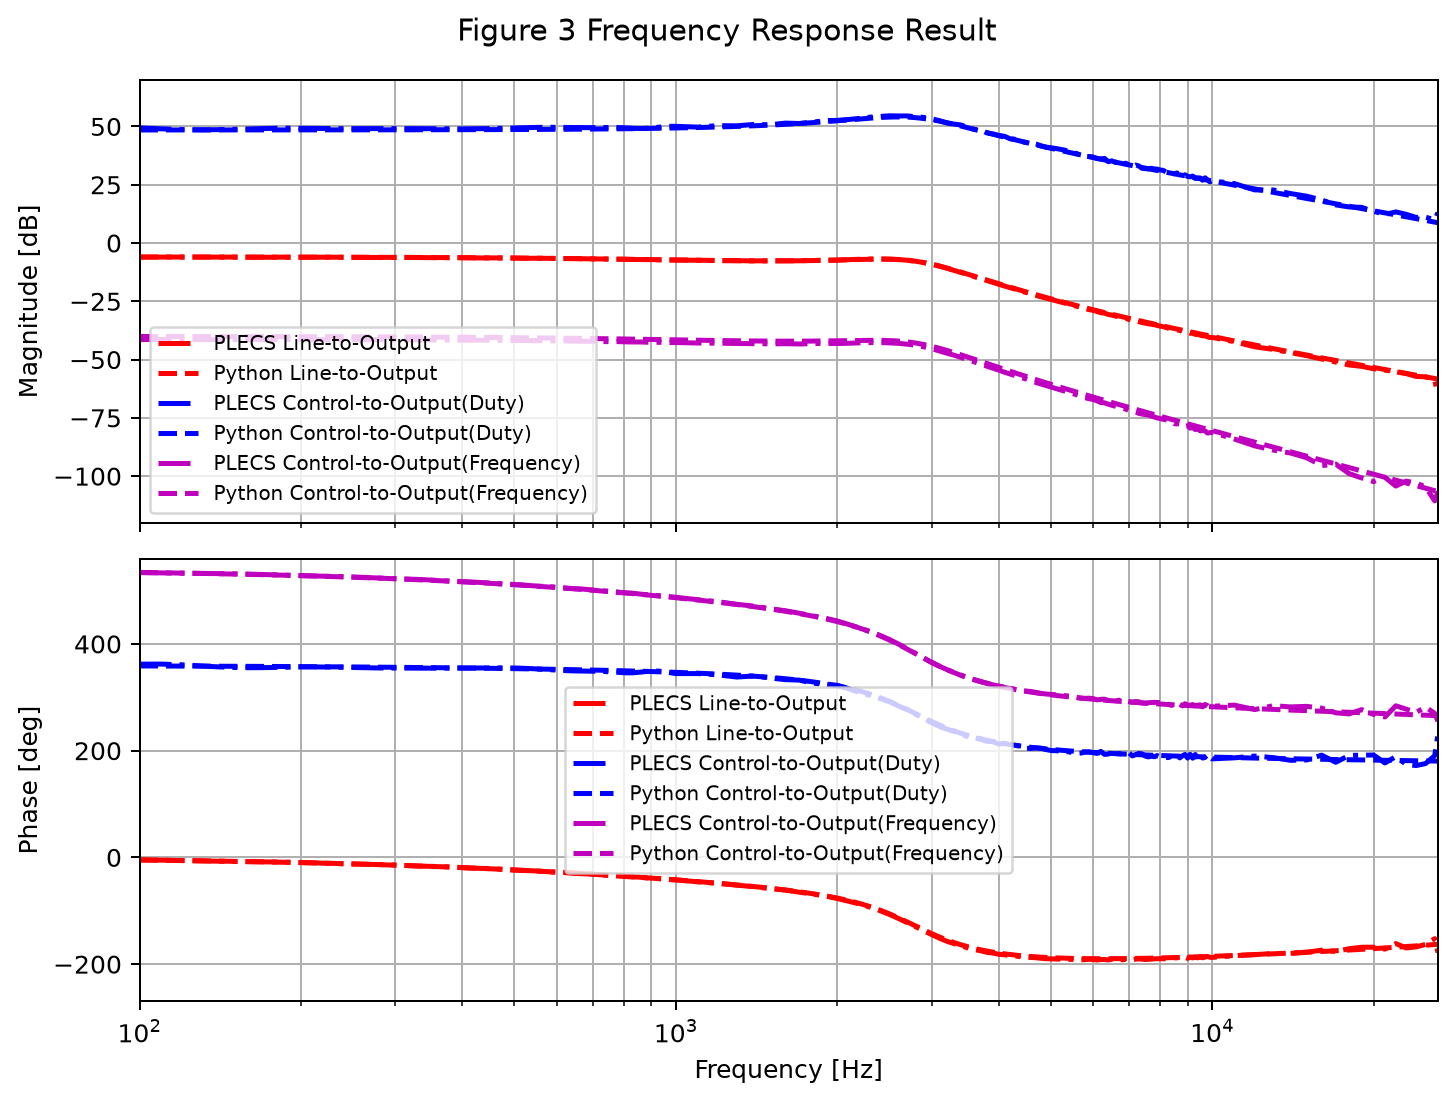
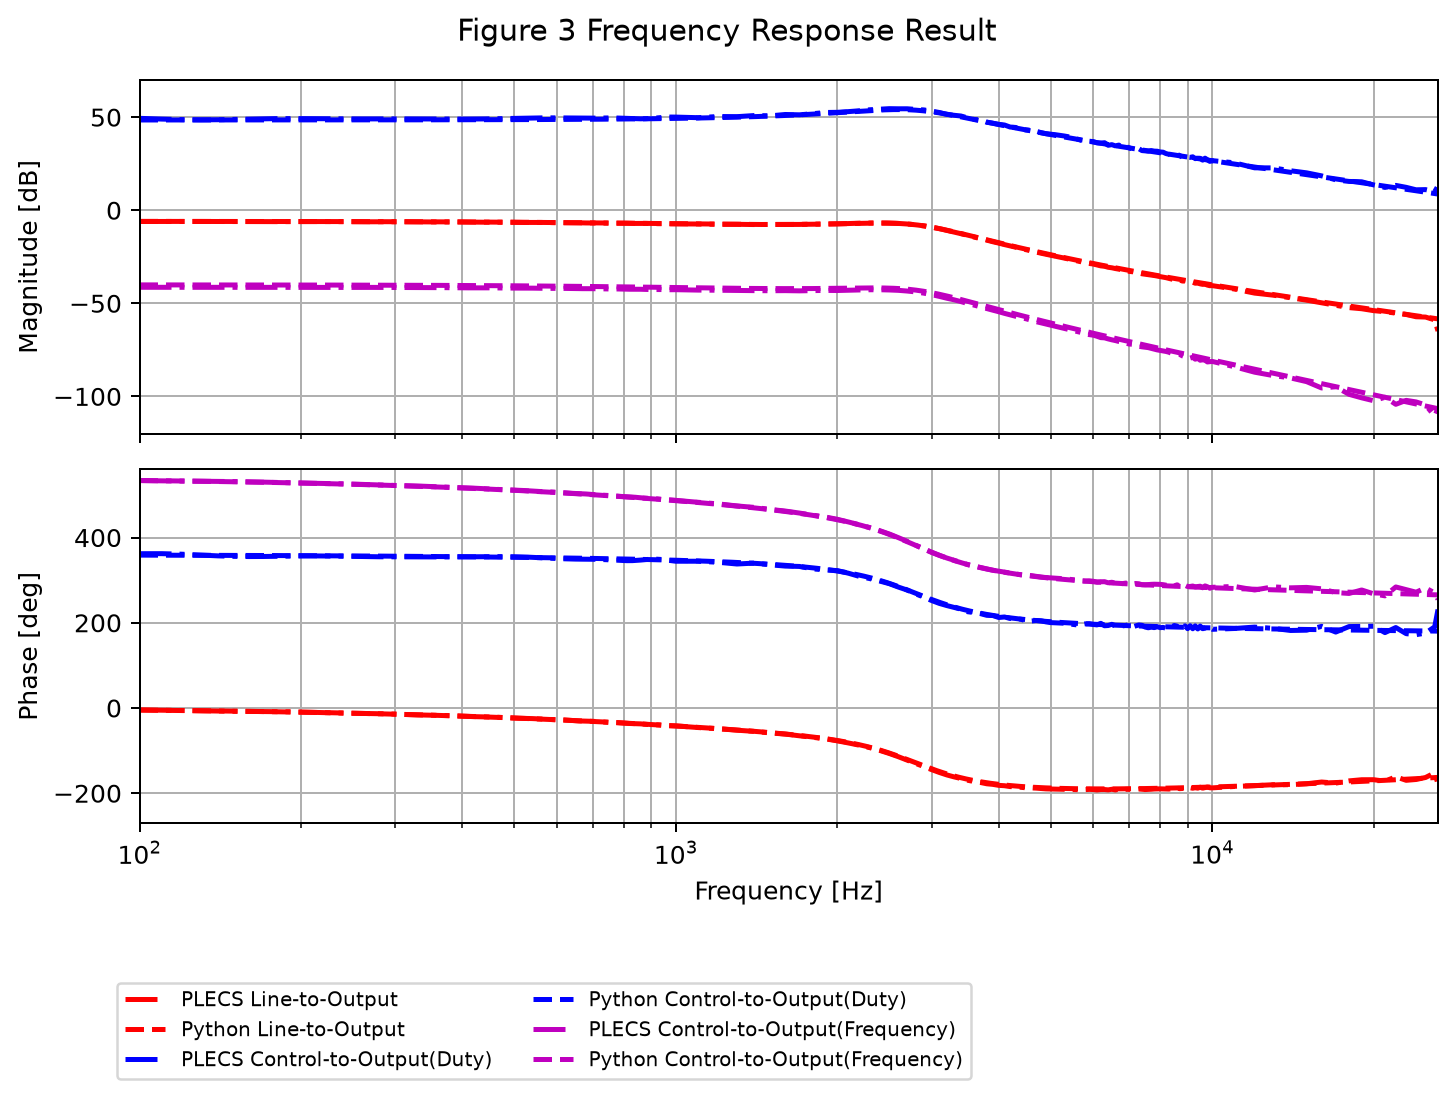
fix APWM Fig.3

diff --git a/src/plot.py b/src/plot.py
@@ -86,7 +86,26 @@ def setup_bode_axes(title, gain_ylim=None, phase_ylim=None, xlim=(100, 100000)):
     return figure, gain_axis, phase_axis
 
 
-def finish_bode_axes(figure, gain_axis, phase_axis):
+def finish_bode_axes(
+    figure,
+    gain_axis,
+    phase_axis,
+    legend_outside=False,
+):
+    if legend_outside:
+        handles, labels = gain_axis.get_legend_handles_labels()
+        figure.legend(
+            handles,
+            labels,
+            loc="lower left",
+            bbox_to_anchor=(0.08, 0.02),
+            fontsize=8,
+            ncol=2,
+            frameon=True,
+        )
+        figure.tight_layout(rect=(0, 0.16, 1, 1))
+        return
+
     gain_axis.legend(loc="best", fontsize=8)
     phase_axis.legend(loc="best", fontsize=8)
     figure.tight_layout()

diff --git a/src/main_fig3.py b/src/main_fig3.py
@@ -123,7 +123,7 @@ def main():
             color=response["color"],
         )
 
-    finish_bode_axes(figure, gain_axis, phase_axis)
+    finish_bode_axes(figure, gain_axis, phase_axis, legend_outside=True)
     plt.show()
 
 
